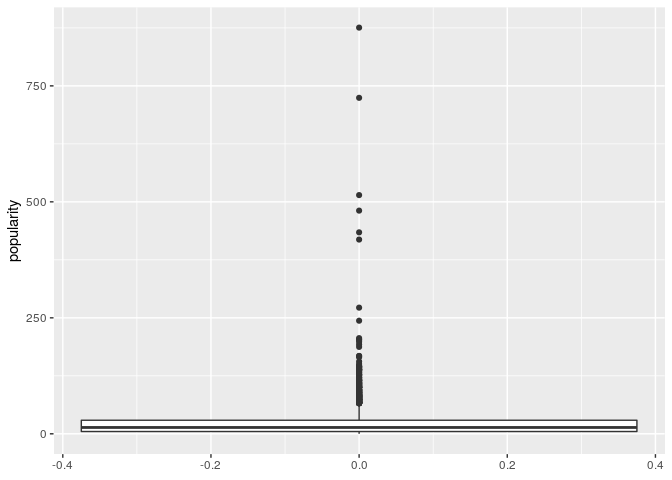
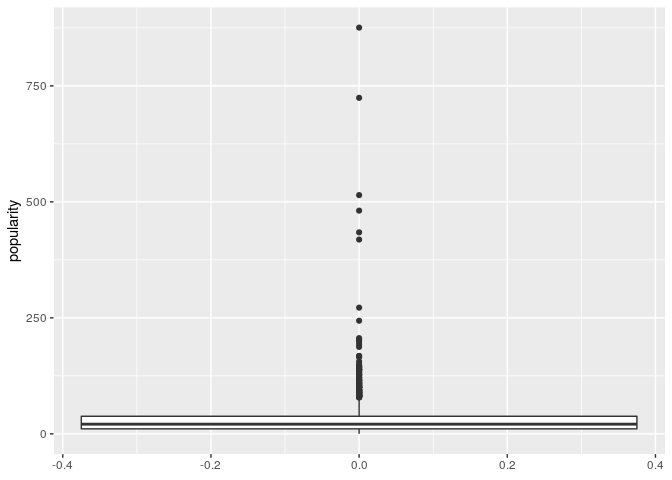
added profitable ratio

Changed region(s): [[0.125, 0.8438, 0.9688, 0.9062]]

diff --git a/project/project.md b/project/project.md
@@ -14,43 +14,17 @@ end. The rest is up to you\!
 
 ### Stuff
 
-    ## # A tibble: 4,803 x 17
-    ##    budget genres keywords original_langua… overview popularity
-    ##     <dbl> <chr>  <chr>    <chr>            <chr>         <dbl>
-    ##  1 2.37e8 "[{\"… "[{\"id… en               In the …      150. 
-    ##  2 3.00e8 "[{\"… "[{\"id… en               Captain…      139. 
-    ##  3 2.45e8 "[{\"… "[{\"id… en               A crypt…      107. 
-    ##  4 2.50e8 "[{\"… "[{\"id… en               Followi…      112. 
-    ##  5 2.60e8 "[{\"… "[{\"id… en               John Ca…       43.9
-    ##  6 2.58e8 "[{\"… "[{\"id… en               The see…      116. 
-    ##  7 2.60e8 "[{\"… "[{\"id… en               When th…       48.7
-    ##  8 2.80e8 "[{\"… "[{\"id… en               When To…      134. 
-    ##  9 2.50e8 "[{\"… "[{\"id… en               As Harr…       98.9
-    ## 10 2.50e8 "[{\"… "[{\"id… en               Fearing…      156. 
-    ## # … with 4,793 more rows, and 11 more variables:
-    ## #   production_companies <chr>, production_countries <chr>,
-    ## #   release_date <date>, revenue <dbl>, runtime <dbl>,
-    ## #   spoken_languages <chr>, status <chr>, tagline <chr>, title <chr>,
-    ## #   vote_average <dbl>, vote_count <dbl>
-
-    ## # A tibble: 4,505 x 17
-    ##    budget genres keywords original_langua… overview popularity
-    ##     <dbl> <chr>  <chr>    <chr>            <chr>         <dbl>
-    ##  1 2.37e8 "[{\"… "[{\"id… en               In the …      150. 
-    ##  2 3.00e8 "[{\"… "[{\"id… en               Captain…      139. 
-    ##  3 2.45e8 "[{\"… "[{\"id… en               A crypt…      107. 
-    ##  4 2.50e8 "[{\"… "[{\"id… en               Followi…      112. 
-    ##  5 2.60e8 "[{\"… "[{\"id… en               John Ca…       43.9
-    ##  6 2.58e8 "[{\"… "[{\"id… en               The see…      116. 
-    ##  7 2.60e8 "[{\"… "[{\"id… en               When th…       48.7
-    ##  8 2.80e8 "[{\"… "[{\"id… en               When To…      134. 
-    ##  9 2.50e8 "[{\"… "[{\"id… en               As Harr…       98.9
-    ## 10 2.50e8 "[{\"… "[{\"id… en               Fearing…      156. 
-    ## # … with 4,495 more rows, and 11 more variables:
-    ## #   production_companies <chr>, production_countries <chr>,
-    ## #   release_date <date>, revenue <dbl>, runtime <dbl>,
-    ## #   spoken_languages <chr>, status <chr>, tagline <chr>, title <chr>,
-    ## #   vote_average <dbl>, vote_count <dbl>
+For our dataset of 5000 movies, we decided to remove the variables id,
+homepage, and original\_title, since we felt that these variables did
+not contribute to our research question of what contributed to a
+“successful” movie. Additionally, since we found problems with the
+budget and revenue variables of non-American movies (not in US dollars),
+we decided to filter for only english movies as a proxy for American
+movies. (Since there is no definite way to filter for only American
+movies). We also filtered for movies that had a budget and revenue that
+were nonzero, this is so that our data would not be skewed by movies
+that were not intended to draw revenue or were not of the same budget
+caliber of the rest of the films.
 
 ![](project_files/figure-gfm/popularity-explanations-1.png)<!-- -->
 
@@ -85,7 +59,7 @@ this came from,,, etc explain this.
     ##  9 The Dark Knight Rises                       250000000
     ## 10 Harry Potter and the Half-Blood Prince      250000000
 
-    ## # A tibble: 3,445 x 1
+    ## # A tibble: 2,516 x 1
     ##    production_companies                                                    
     ##    <chr>                                                                   
     ##  1 "[{\"name\": \"Ingenious Film Partners\", \"id\": 289}, {\"name\": \"Tw…
@@ -98,6 +72,30 @@ this came from,,, etc explain this.
     ##  8 "[{\"name\": \"Marvel Studios\", \"id\": 420}, {\"name\": \"Prime Focus…
     ##  9 "[{\"name\": \"Warner Bros.\", \"id\": 6194}, {\"name\": \"Heyday Films…
     ## 10 "[{\"name\": \"DC Comics\", \"id\": 429}, {\"name\": \"Atlas Entertainm…
-    ## # … with 3,435 more rows
+    ## # … with 2,506 more rows
+
+### Creating a “Profitability” Variables
+
+The first profitability variable is a ratio of revenue to budget, to
+show by what percentage a movie was “profitable.” This second
+profitability variable is a categorical variable that deciphers if the
+movie was profitable or not, based on the profitiability ratio. If the
+ratio was greater than 1, it was considered profitable. It will simply
+say “yes” for profitable, and “no” for non-profitable.
+
+    ## # A tibble: 3,102 x 1
+    ##    profitable
+    ##    <chr>     
+    ##  1 Yes       
+    ##  2 Yes       
+    ##  3 Yes       
+    ##  4 Yes       
+    ##  5 Yes       
+    ##  6 Yes       
+    ##  7 Yes       
+    ##  8 Yes       
+    ##  9 Yes       
+    ## 10 Yes       
+    ## # … with 3,092 more rows
 
 ### Conclusion
